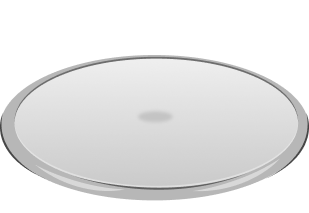
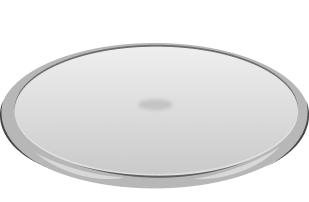
[FE] Fix: 타이타닉 술 따르기 수정

Changed region(s): [[0.0, 0.2079, 1.0, 0.9505], [0.466, 0.4752, 0.5534, 0.5347]]

diff --git a/FrontEnd/src/components/game/titanic-game.vue b/FrontEnd/src/components/game/titanic-game.vue
@@ -23,12 +23,15 @@
         </div>
         <div class="col-md-3">
           <div style="height: 100%" class="d-flex flex-column justify-content-end">
-            <span class="m-2 d-flex flex-column justify-content-end" style="height: 230px; width: 100%">
+            <span class="m-2 d-flex flex-column justify-content-end box" style="height: 230px; width: 100%">
               <img
                 class="img-style mx-auto"
                 :style="imgStyle"
-                src="@/assets/add_beer.png" 
+                src="@/assets/game_beer.png" 
                 alt="">
+              <img 
+                src="@/assets/game_glass.png" alt=""
+                class="img-style">
             </span>
             <span class="mx-auto">
               <v-btn
@@ -194,12 +197,37 @@ export default {
     border-radius: 20px;
     background: #141425;
   }
+  .box{
+    position:relative;
+    /* display: inline-block; */
+    display:block;
+    margin:auto;
+  }
 
+  .box > img {
+    position: absolute;
+    left: 50%; top: 50%;
+    transform: translateX(-50%);
+  }
+
+ 
   .img-style {
     display: block;
     object-fit: cover;
     object-position: center bottom;
     width: 130px;
+    position: absolute;
+    top: 50%;
+    left: 50%;
+    -webkit-transform:translate(-50%, 0%);
+    -ms-transform:translate(-50%, 0%);
+    transform:translate(-50%, 0%);
+  }
+
+ .box > img:nth-child(2){
+    top: initial;
+    bottom: 0;
+    transform: translate(-50%, 0);
   }
 
 </style>
